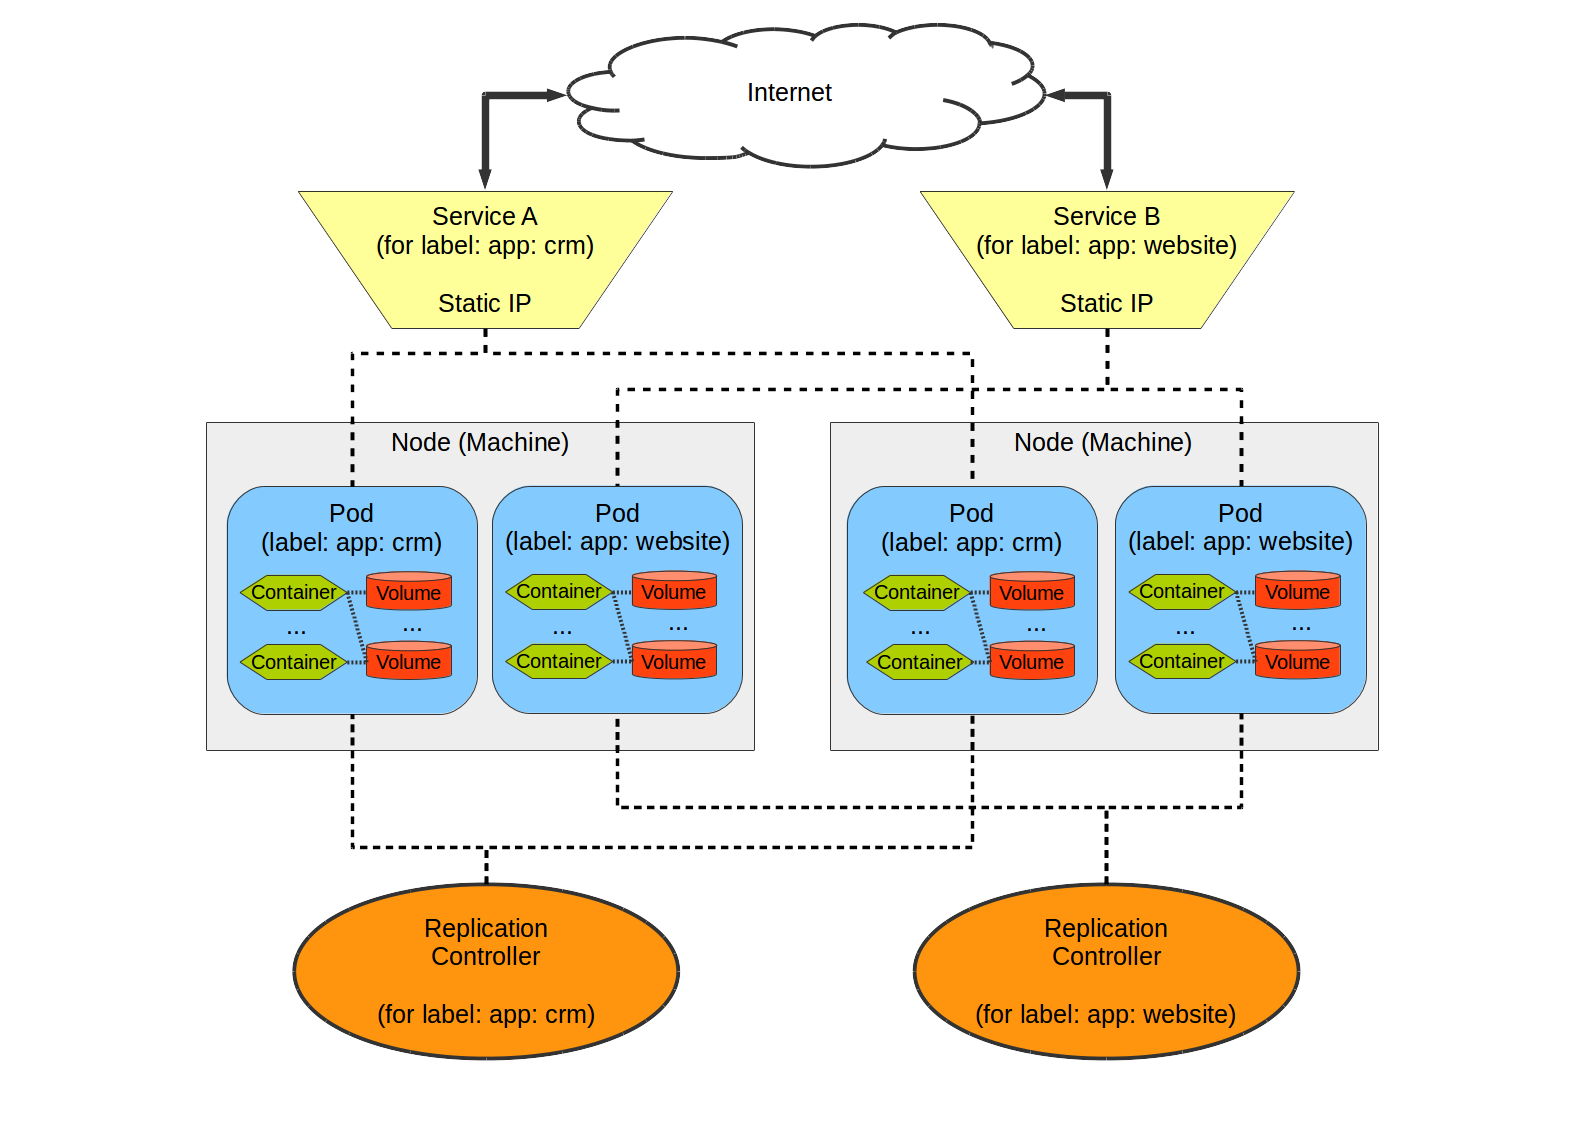
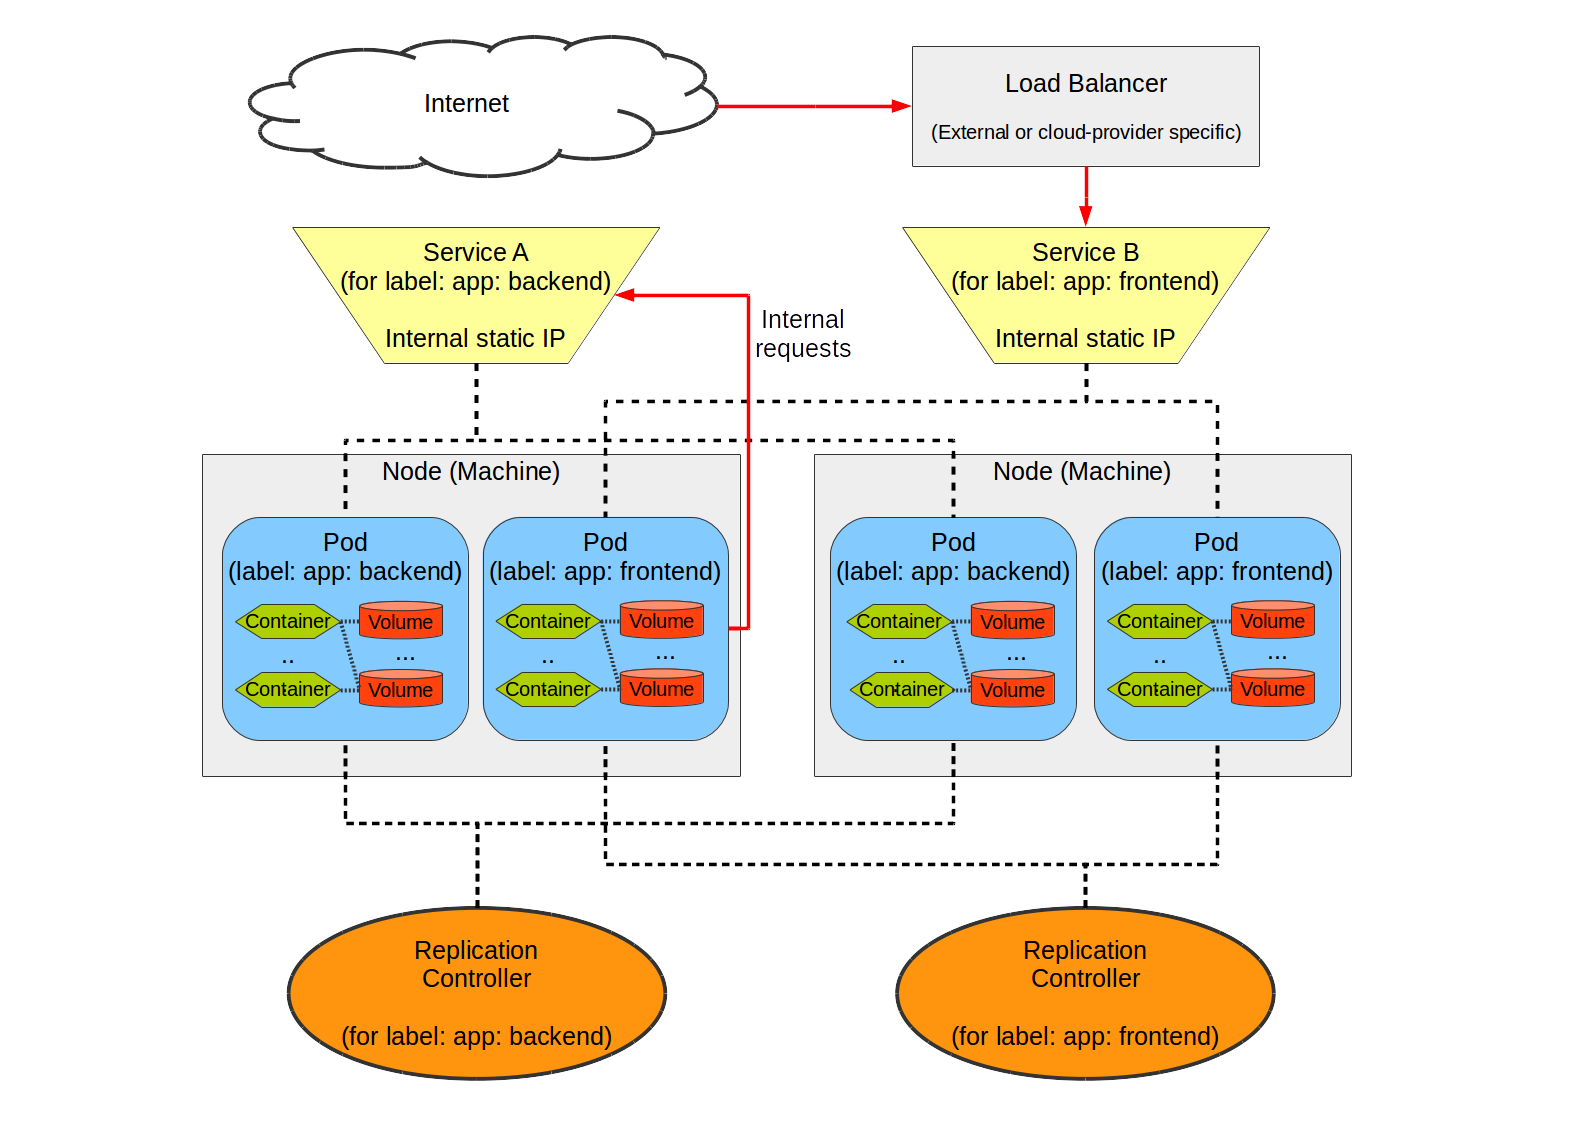
Improved Kubernetes diagram.

diff --git a/slides/index.html b/slides/index.html
@@ -1036,6 +1036,7 @@ search wgtn.cat-it.co.nz lan
                 <section>
                   <h3>Kubernetes Overview</h3>
                   <img src="img/kubernetes-diagram.png" alt="Kubernetes diagram">
+                  <aside class="notes">The services and controllers actually run as processes on every node. The external load balancer is necessary to split traffic across the nodes, and once it reaches a node, the service will route it to the correct pod, or even a different node (see: http://www.dasblinkenlichten.com/kubernetes-101-external-access-into-the-cluster/).</aside>
                 </section>
                 <section>
                     <h3>Pods/Services</h3>
